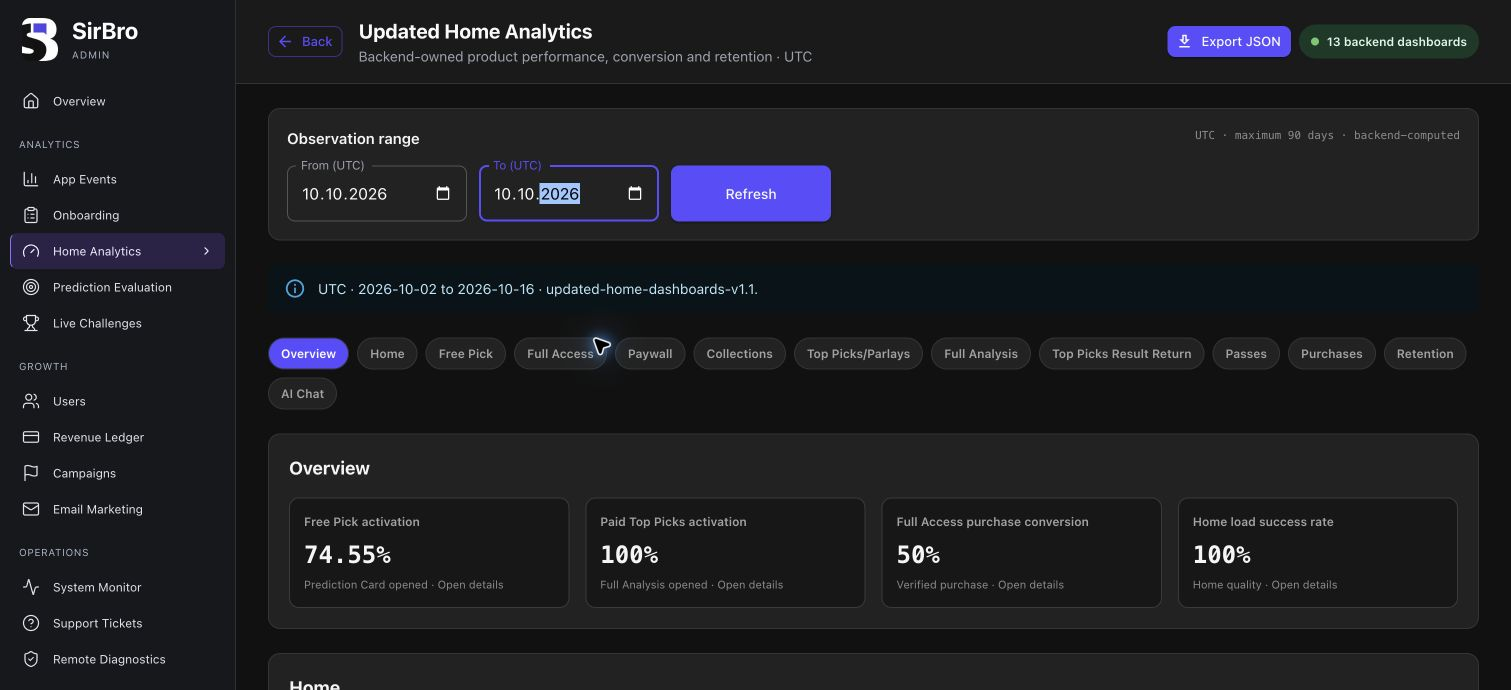
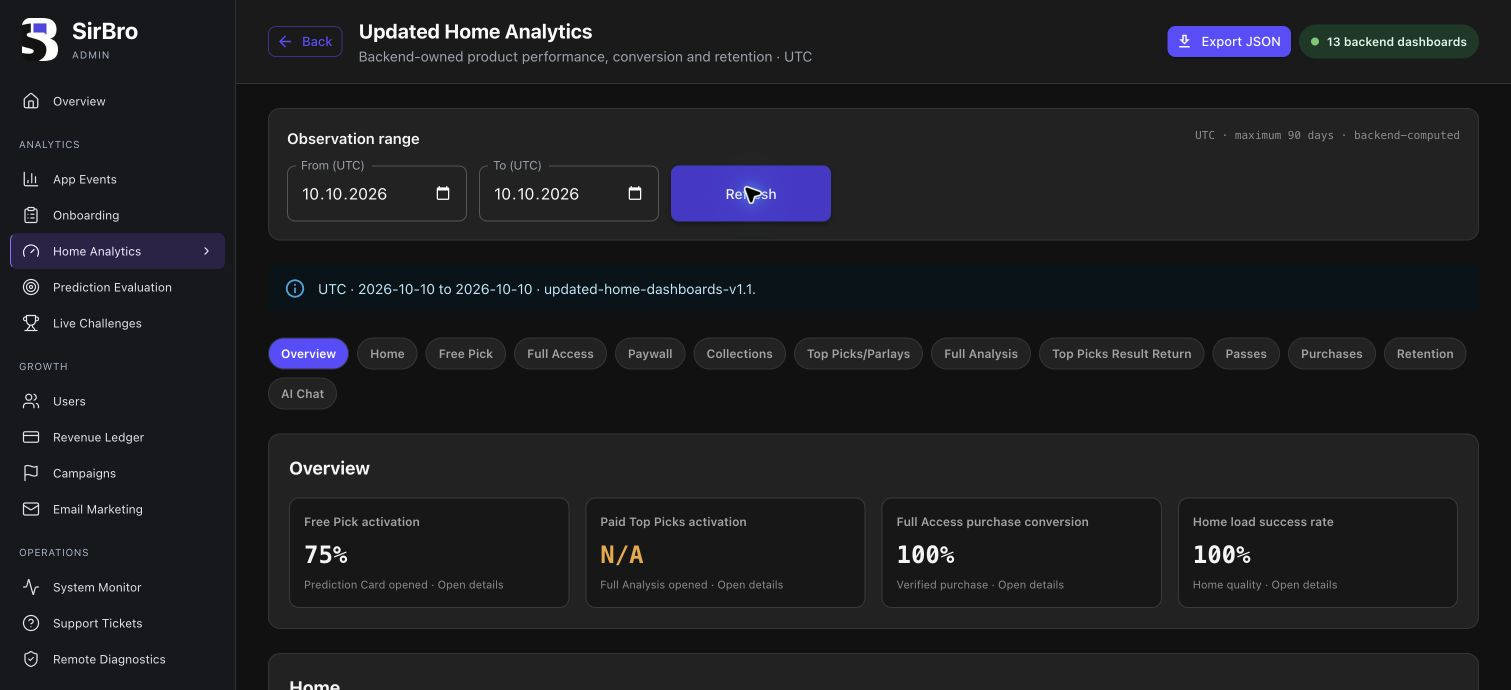
docs: record live analytics validation and statistics audit
What changed: document deployed summary equality and preserve Chrome evidence for additional read-only statistics findings.

diff --git a/docs/evidence/home-analytics-consistency/UI_EVIDENCE_REPORT.md b/docs/evidence/home-analytics-consistency/UI_EVIDENCE_REPORT.md
@@ -42,3 +42,66 @@ Validation: 10 affected Jest suites / 50 tests passed; lint zero errors with
 three existing warnings, build, typecheck and diff check passed. Independent Spec
 and Standards review is required before commit. Deployed validation is recorded
 separately when available.
+
+## Deployed acceptance — 2026-10-16
+
+Vercel reported success for code commit `23ebc68e`. The authenticated user Chrome
+session on `sirbro.com` was reloaded and Overview selected 2026-10-10. Its four
+headlines were 9.09%, 10.71%, 0%, 100%, with counts 2/22 users, 3/28 users, 0/2
+users and 99/99 attempts. Its last chart points matched those headlines.
+Clicking the general Home Analytics report arrow carried
+`from=2026-10-10T00:00:00.000Z&to=2026-10-10T23:59:59.999Z`; both detail date filters
+were October 10 and its four summary values matched exactly.
+
+- [Deployed Overview](chrome-overview-live-after.png)
+- [Deployed detail](chrome-detail-live-after.png)
+- [Original detail before repair](chrome-before-live.png)
+
+## Additional read-only statistics audit
+
+Requested while the deployment was running. Inspected all 13 dashboards and
+32 metric types in the real October 2–16 export (1,572 rows), frontend formatting
+and grouping, backend formula SQL, and the dashboard manifest. Numeric percentage
+rows with defined positive denominators matched numerator/denominator within
+backend two-decimal rounding; none fell outside 0–100. This checks returned
+arithmetic and presentation, not completeness of raw event instrumentation.
+
+Confirmed additional defects, left unchanged by this audit:
+
+1. **Controlled load failure rate loses observed zero.** The real export has
+   848/848 successful settled attempts but failure rate N/A. Contract says N/A
+   only when no settled attempts exist. The SQL groups only failed attempts;
+   when there are none it returns no row, and metricRowsOrNa manufactures N/A.
+   Sources: backend updated-home-dashboard.query.ts:765–774 and
+   updated-home-analytics-dashboard.service.ts:245–259. Also reproduced live on
+   October 16. [Chrome evidence](chrome-audit-failure-rate.png).
+2. **Latency dimensions have inconsistent time units.** Expanded verification
+   latency displays p50=15492.683 without a unit beside value=15.493s and unit
+   seconds. Backend p50/p95 are milliseconds; generic dimension rendering leaves
+   them raw while formatMetricValue converts only the main value. Sources:
+   backend query:1240–1248, frontend UpdatedHomeAnalyticsSection.tsx dimension
+   renderer and presentation.ts formatMetricValue.
+   [Chrome evidence](chrome-audit-latency.png).
+3. **Empty funnels display a full 100% baseline.** Live October 16 Top Picks has
+   0 baseline users but the first bar is full and labelled 100% cohort baseline.
+   UpdatedHomeFunnel.tsx:102–111 assigns it unconditionally. Also, when a stage
+   has known zero numerator but undefined prior-stage percentage, the count is
+   displayed as N/A because it is gated by percentage availability (:134–136).
+   [Chrome evidence](chrome-audit-empty-funnel.png).
+4. **Home exits description uses the wrong observation unit.** The UI says
+   share of Home visits, but SQL and manifest use distinct users with terminal
+   checkpoints, grouped by access state/variant. One user may have multiple
+   visits, so the description is not the implemented statistic. Sources:
+   presentation.ts home_exit_without_interaction_rate and backend query:850–859.
+5. **Active Home Time omits a required data-loss disclosure.** The manifest's
+   nullTreatment explicitly requires disclosure of up to 15 seconds terminal
+   loss; the rendered description and grouped mean have no such note. This is
+   a presentation/contract gap, not evidence that the returned mean arithmetic
+   is wrong.
+
+Interpretation caution: Home accordion percentages and Retention headers are
+explicitly unweighted averages across breakdowns/cohorts. Their arithmetic is
+correct for that label, but they are not overall distinct-user rates. Do not
+replace them with sums of user counts: users can overlap across access states
+and composition cohorts. Home load attempts, in contrast, are deduplicated and
+partitioned by breakdown, so their weighted summary is valid.
